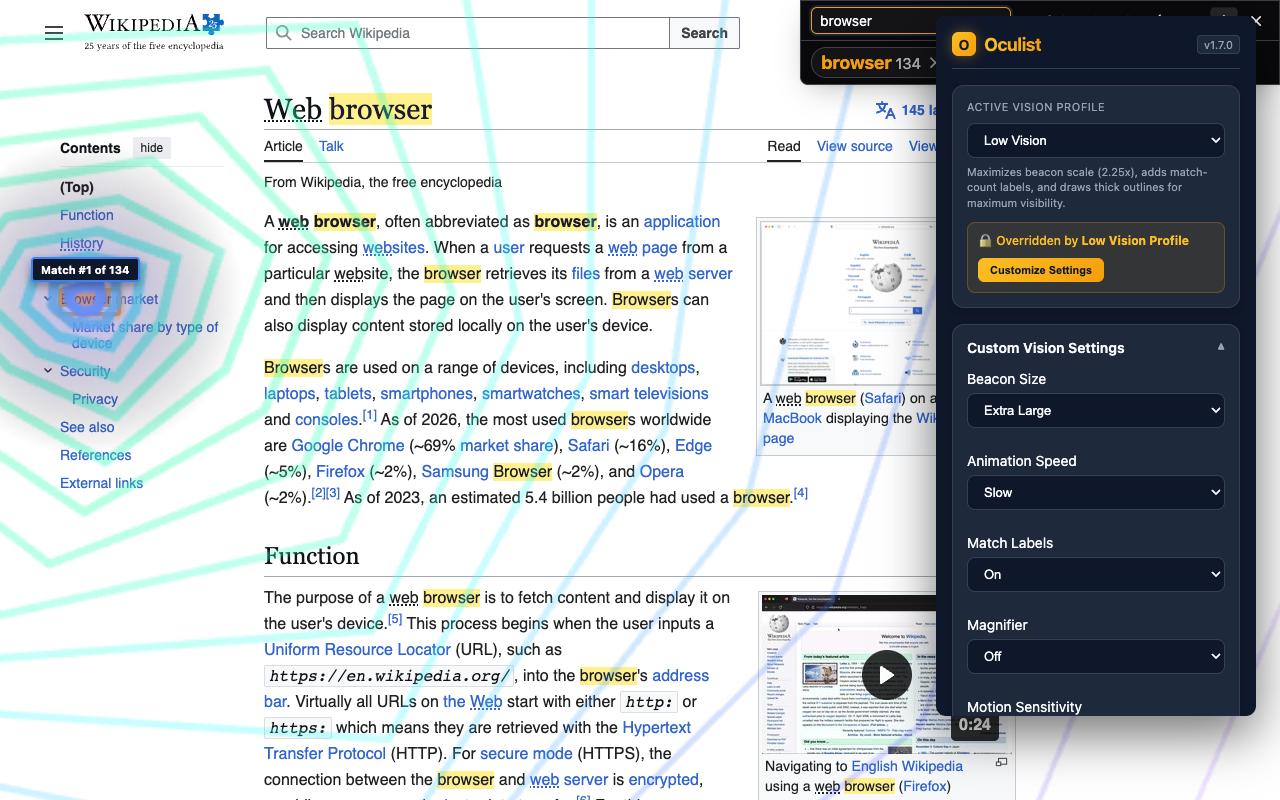
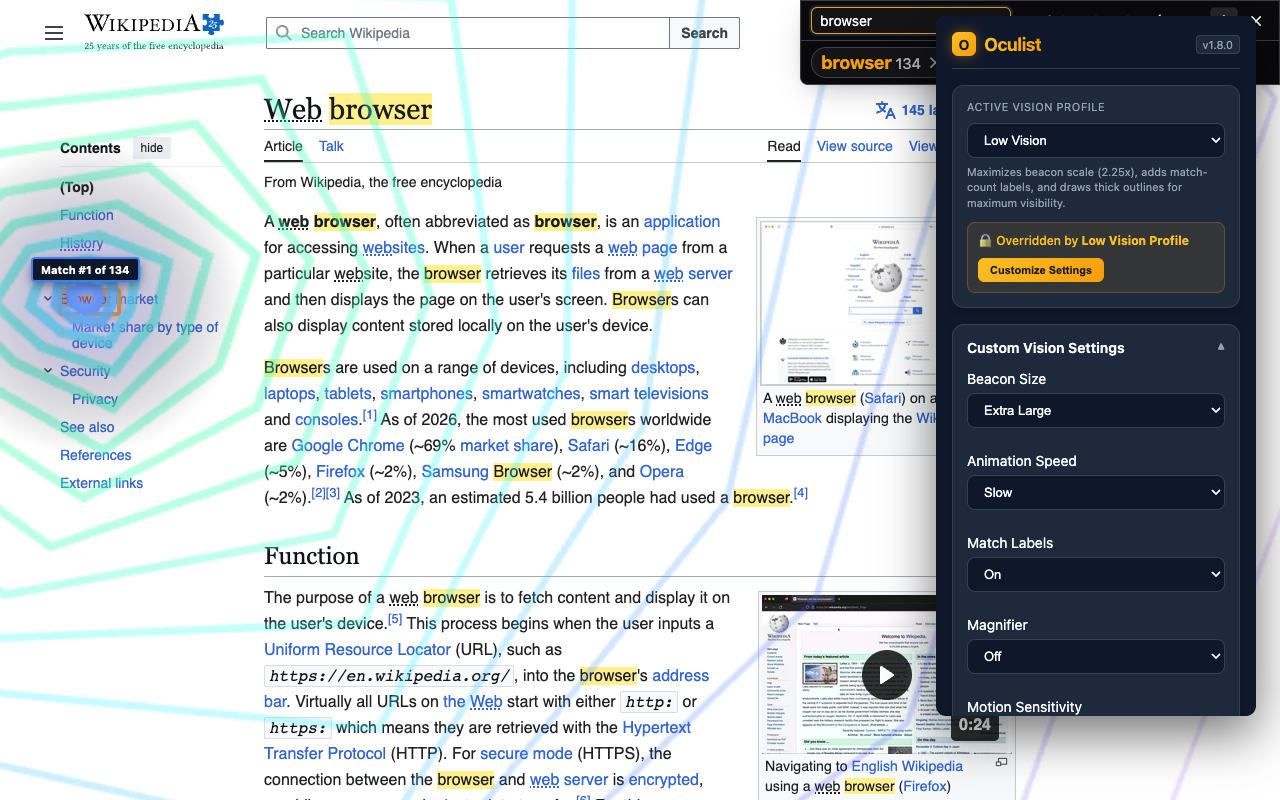
chore(oculist-ryfk): recapture store screenshots for the v1.8.0 pack UI
04-settings now shows the last core effects, the Halloween pack group
and both Optional Effect Packs toggles, with whole rows at both edges
of the list. The capture script selects Spotlight, scrolls the list to
the first pack subheading and hides the chip row for that shot only;
the chip-row workaround goes once oculist-lrwu is fixed. The other four
shots are refreshed with no visible change beyond the v1.8.0 badge.

diff --git a/scripts/screenshots.js b/scripts/screenshots.js
@@ -129,6 +129,45 @@ async function waitForBeaconsToSettle(page, timeoutMs = 15000) {
   await page.locator(GEAR).click();
   await page.waitForSelector('#oc-wrap >> #oc-settings-panel', { timeout: 5000 });
   await page.waitForTimeout(600); // panel open animation
+  // The chip row adds ~34px that the panel's max-height cap does not count, so the pack
+  // toggles fall past the 800px frame. This shot is about the panel: hide the row.
+  await page.evaluate(() => {
+    const row = document.querySelector('#oc-wrap').shadowRoot.querySelector('.oc-chip-row');
+    if (row) row.style.display = 'none';
+  });
+  // Chrono Tunnel (picked for 03) sits far up the list, out of frame; select Spotlight, a
+  // core effect in frame beside the pack subheading, so a checked radio is visible.
+  await page.locator('#oc-wrap >> .oc-radio-list >> text=Spotlight').first().click();
+  await page.waitForTimeout(300);
+  // v1.8.0: show the effect-pack UI. Scroll the effect list so the last few core effects
+  // (Spotlight, the selected one, among them) sit above the "Halloween" subheading
+  // with the first Halloween rows below it, snapped so only whole rows touch the list's
+  // top and bottom edges. Then scroll the panel to its end so the pack toggles are in frame.
+  await page.evaluate(() => {
+    const root = document.querySelector('#oc-wrap').shadowRoot;
+    const panel = root.querySelector('#oc-settings-panel');
+    const list = root.querySelector('.oc-radio-list');
+    // 'instant': the Scroll Behavior setting defaults to smooth, which would leave the
+    // scrolls mid-flight at screenshot time.
+    const rel = (el) => el.getBoundingClientRect().top - list.getBoundingClientRect().top + list.scrollTop;
+    const heads = [...list.querySelectorAll('.oc-radio-group-heading')].sort((x, y) => rel(x) - rel(y));
+    const rows = [...list.querySelectorAll('.oc-radio-item')];
+    if (heads.length) {
+      const h = rel(heads[0]);
+      const above = rows.filter((r) => rel(r) < h);
+      // Top edge: the 4th core row above the heading (a row boundary, no cut text).
+      const first = above[Math.max(0, above.length - 4)];
+      const top = rel(first) - 2;
+      list.scrollTo({ top, behavior: 'instant' });
+      // Bottom edge: shrink the viewport to end exactly after the last whole row.
+      const fit = rows.filter((r) => rel(r) - top + r.offsetHeight <= list.clientHeight);
+      const last = fit[fit.length - 1];
+      list.style.maxHeight = (rel(last) - top + last.offsetHeight + 2) + 'px';
+      list.scrollTo({ top, behavior: 'instant' });
+    }
+    panel.scrollTo({ top: panel.scrollHeight, behavior: 'instant' });
+  });
+  await page.waitForTimeout(300);
   await page.screenshot({ path: `${OUT}/04-settings.png` });
   await page.locator(GEAR).click(); // close settings before the popup section below
   await page.waitForTimeout(200);
